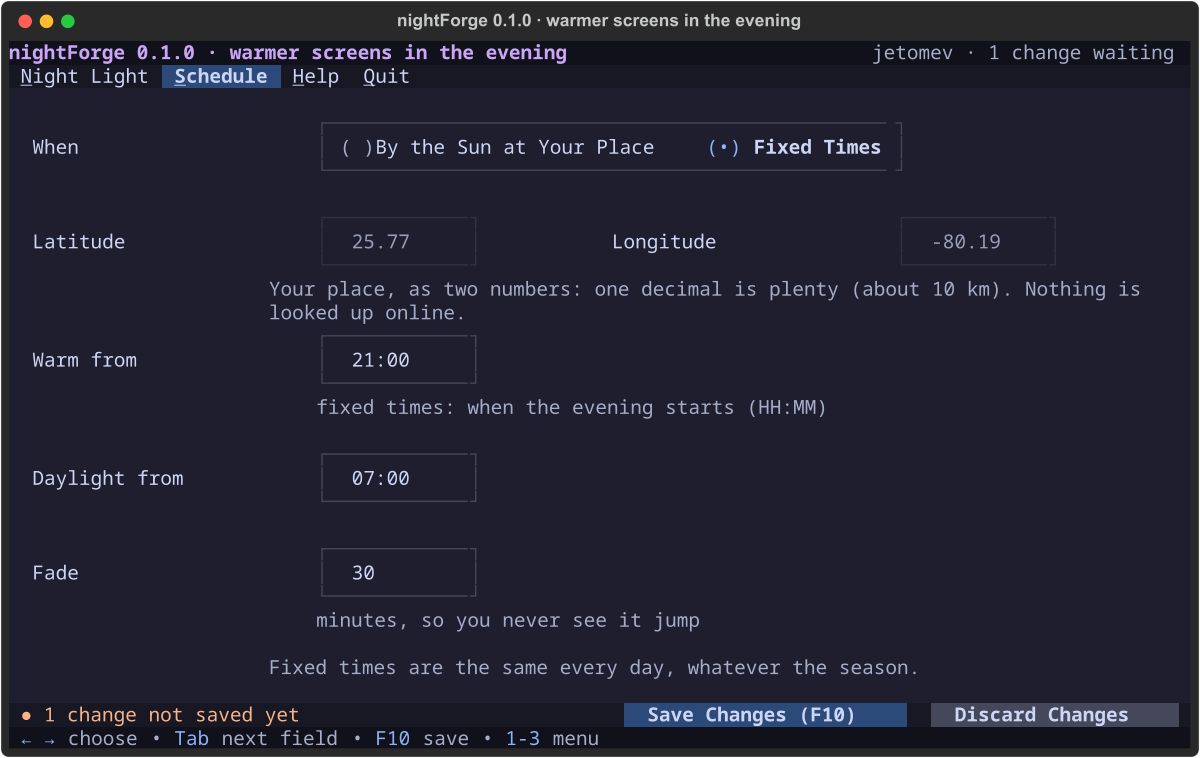
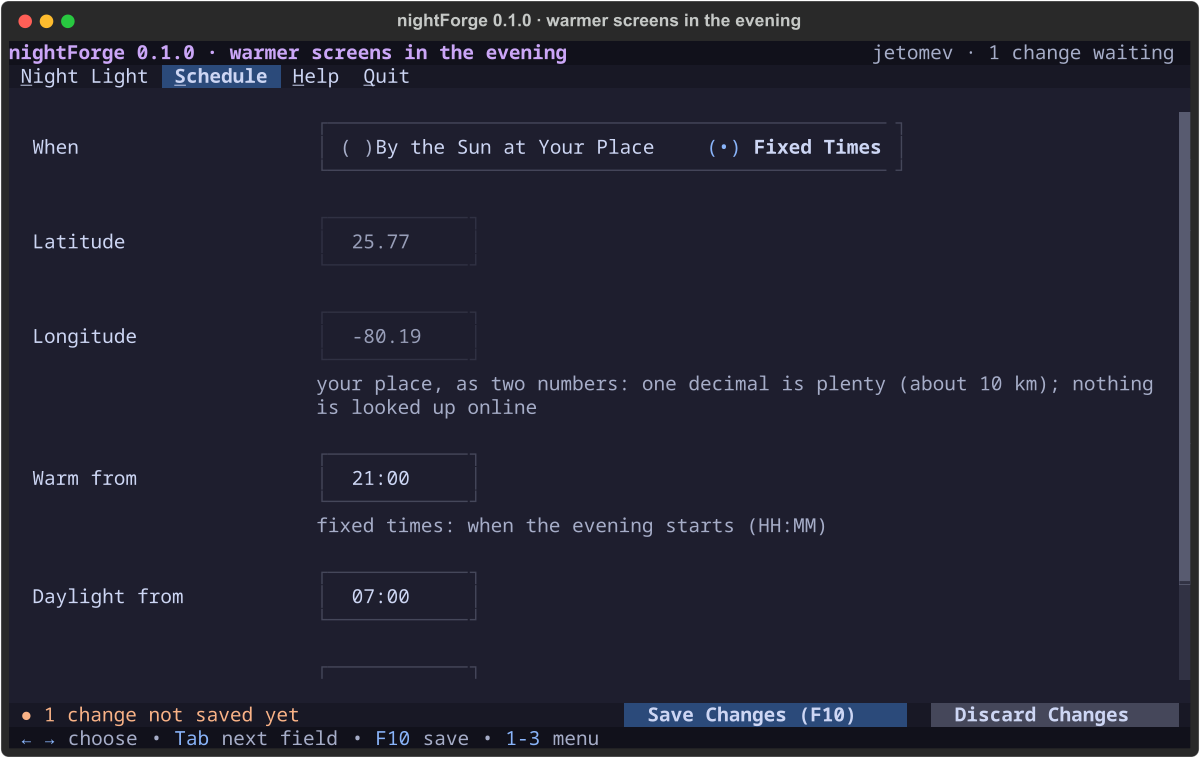
fix(nightforge): Schedule's place fields stacked — their boxes' edges spilled onto the note (Javier's first run)

diff --git a/nightforge/nightforge/app.py b/nightforge/nightforge/app.py
@@ -40,7 +40,6 @@ NF_CSS = FORGE_CSS + """
 .nf-buttons { height: auto; padding: 0 0 1 20; }
 .nf-buttons Button { margin: 0 1 0 0; }
 #nf-preview-body { height: auto; padding: 1 2; }
-.nf-place Input { width: 14; }
 Input.nf-time { width: 14; }
 """
 
@@ -238,11 +237,11 @@ class ScheduleView(VerticalScroll):
         p = self.session.pending
         yield SettingRow("When", Choices([("sun", "By the Sun at Your Place"), ("fixed", "Fixed Times")], p.schedule,
                                          id="nf-schedule"), setting="schedule")
-        with Horizontal(classes="nf-place"):
-            yield SettingRow("Latitude", Input(f"{p.latitude:.2f}", id="nf-lat"), setting="lat")
-            yield SettingRow("Longitude", Input(f"{p.longitude:.2f}", id="nf-lon"), setting="lon")
-        yield Static("[$forge-muted]Your place, as two numbers: one decimal is plenty (about 10 km). "
-                     "Nothing is looked up online.[/]", classes="nf-note")
+        # stacked, like the fixed times: side by side, their boxes' bottom edges spilled onto the note
+        # below (Javier's first run, 2026-10-09)
+        yield SettingRow("Latitude", Input(f"{p.latitude:.2f}", id="nf-lat", classes="nf-time"), setting="lat")
+        yield SettingRow("Longitude", Input(f"{p.longitude:.2f}", id="nf-lon", classes="nf-time"), setting="lon",
+                         note="your place, as two numbers: one decimal is plenty (about 10 km); nothing is looked up online")
         sun = Static("", id="nf-sun")
         sun.border_title = "Your sun, worked out on this computer"
         yield sun

diff --git a/nightforge/TODO.md b/nightforge/TODO.md
@@ -15,7 +15,9 @@
 - [x] The tray icon (`nightforge tray`, D-4/D-5): muted ☀ by day, mustard ☾ while warm, dim ○ off; its menu; started by `nightforge start`
 - [x] hypeForge: the login line (`nightforge start`, fallbacks), the Settings page + Home card, a launcher entry + float rule (and workspaceForge's, which were missing), Help page 17 — repo + live, backups
 - [x] Tests: 23 (core 12, tray 4 on a private bus, pages 7); 10 behaviours broken on purpose, 10 caught; pictures checked by eye (lost spaces, a repeated word, narrow time fields — fixed); `scripts/bench-start.py` (real wlsunset on a hidden Sway, private bus): 14/14, the real night light untouched
-- [ ] **NEXT — live:** `nightforge start` on the desktop (takes over today's wlsunset, the tray icon appears) → Javier's run
+- [x] Live 2026-10-09 ~17:40: `nightforge start` on the desktop took over the night light (one wlsunset, the old one stopped) and the tray icon registered
+- [x] **Javier's first run:** "the app runs well"; Schedule had stray lines over the place note (the latitude/longitude boxes' bottom edges, cut in a too-short row) → stacked like the fixed times, fixed
+- [ ] Tonight ~19:00: it warms by itself and the icon turns mustard
 
 ## Phase 2 · Release
 - [ ] Javier's run → 1.0.0, GitHub, AUR after his local test; then README row, kognogos.org card, Vault
